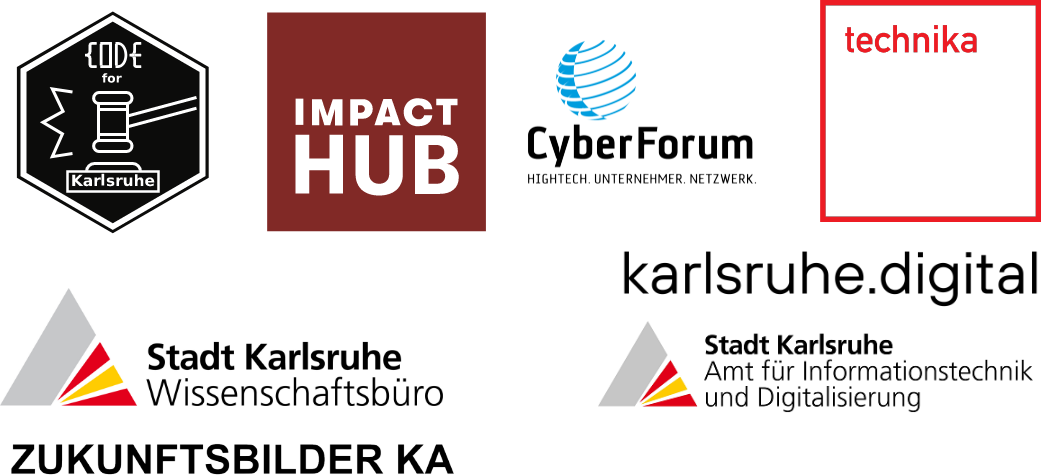
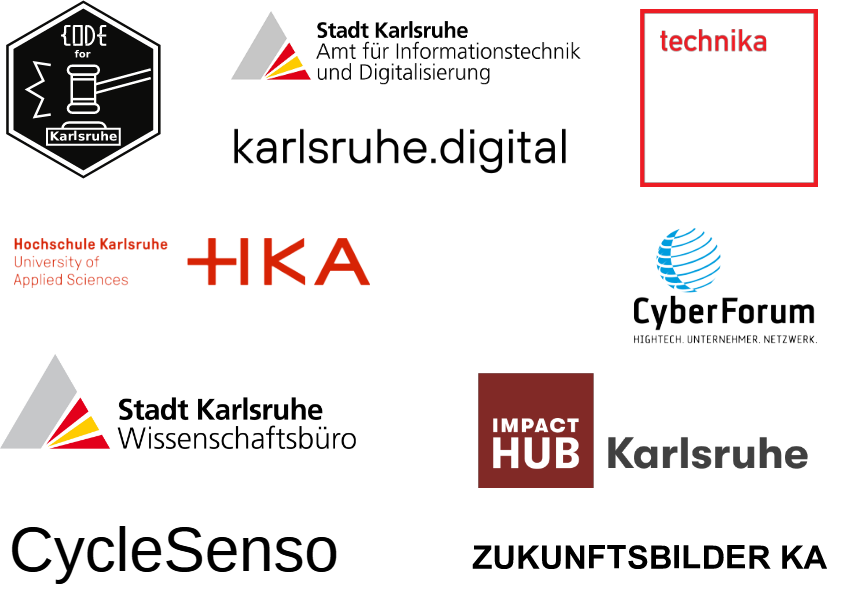
update odd24

diff --git a/content/de/projekte/2024-03-01-odd24.md b/content/de/projekte/2024-03-01-odd24.md
@@ -2,7 +2,7 @@
 layout: project
 lab: OK Lab Karlsruhe #needed for Aggregation on Lab-Page
 imgname: karlsruhe/ODDlogo-ka.svg
-title: Open Data HackDay am 1. und 2.3.2024
+title: Open Data HackDays am 1. und 2.3.2024
 showcase: 1
 status: Aktiv
 
@@ -18,16 +18,21 @@ aliases:
 
 Der *Open Data Day* am 1. Samstag im März ist ein jährlich stattfindendes Ereignis, um international auf die Bedeutung offener Daten hinzuweisen. Rund um diesen Aktionstag stellen auf der ganzen Welt lokale Gruppen selbst organisierte Veranstaltungen auf die Beine – auch in Karlsruhe. Das übergeordnete Thema in diesem Jahr ist *Mit offenen Daten die Nachhaltigkeitsziele (SDG) unterstützen*.
 
-In diesem Jahren können wir gemeinsam mit Kooperationspartnern aus Karlsruhe ein umfangreicheres Programm als früher anbieten, das die Möglichkeiten Mitzumachen in den Mittelpunkt stellt: wir machen einen HackDay **Open Data for Urban Future**
+In diesem Jahren können wir gemeinsam mit Kooperationspartnern aus Karlsruhe ein umfangreicheres Programm als früher anbieten, das die Möglichkeiten Mitzumachen in den Mittelpunkt stellt: die HackDays **Open Data for Urban Future**
 
 Ist das nur etwas für *Hacker* oder IT-Profis? **Keineswegs!** Wir orientieren uns an der [Wikipedia Definition](https://de.wikipedia.org/wiki/Hack) und wollen mit kreativen Methoden Dinge verbessern, die noch nicht so gut funktionieren. Dazu braucht es gute Ideen nicht nur aus der Programmier- und Datenecke.
 
 Unabhängig vom Alter und technischen Fähigkeiten – beim *Open Data Day* kann jede/jeder mitmachen – egal, ob Neuling oder Expert:In.
 
-Wir starten den *Open Data HackDay* um 17:00 Uhr im **[Triangel Space](https://www.triangel.space/)** mit einer Einführung. Am Samstag stehen uns die Räume ab 9:00Uhr für unsere Hacks zur verfügung. Ab 17:00Uhr wollen wir gemeinsam die Ergebnisse sichten.
+Wir starten die *Open Data HackDays* um 17:00 Uhr im **[Triangel Space](https://www.triangel.space/)** mit einer Einführung. Am Samstag stehen uns die Räume ab 9:00Uhr für unsere Hacks zur verfügung. Ab 17:00Uhr wollen wir gemeinsam die Ergebnisse sichten.
 
 Zur Förderung der Nachhaltigkeit werden wir danach einmal im Monat eine Austauschmöglichkeit für die entstandenen Projekte einirchten.
 
+## Anmeldung
+
+**Bitte melde Dich an.** [Hier](https://pretix.eu/digital-codes/oddka24/) gibt es die kostenlosen Tickets. 
+
+Wir werden für Wasser und ein paar snacks Sorgen. Bitte bringe Deinen Laptop Computer mit. (Wir haben auch ein paar Geräte vorrätig, bitte schreib uns, wenn Du eins davon benötigst)
 
 ## *Vorläufiges* Programm
 Dauer Fr. 17:00 Uhr - Sa. 20:00 Uhr. Kurzfristige Änderungen sind möglich, bitte kurz vorher nochmal hier vorbeischauen.
@@ -54,19 +59,28 @@ Dauer Fr. 17:00 Uhr - Sa. 20:00 Uhr. Kurzfristige Änderungen sind möglich, bit
 
 ![Logos](/projects/karlsruhe/odd2024/odd24coop.png)
 
-
 [OK Lab Karlsruhe](https://ok-lab-karlsruhe.de)
 
-[HS Karlsruhe](https://www.h-ka.de/)
+<!-- 
+-->
 
-[Cyberforum](https://www.cyberforum.de/)
+[Cyberforum e.V. | technika](https://www.cyberforum.de/)
 
-[Jugend Forscht]()
 
 [Stadt Karlsruhe](https://www.karlsruhe.de)
 
-[ImpactHub Karlsruhe](https://karlsruhe.impacthub.net)
+[karlsruhe.digital](https://karlsruhe.digital/)
 
+[Impact Hub Karlsruhe](https://karlsruhe.impacthub.net)
+
+[Hochschule Karlsruhe](https://www.h-ka.de/)
+
+<!-- 
+[CycleSenso](https://cyclesense.de/)
+-->
+CycleSenso
+
+ZUKUNFTSBILDER KA
 
 
 ## Infos
